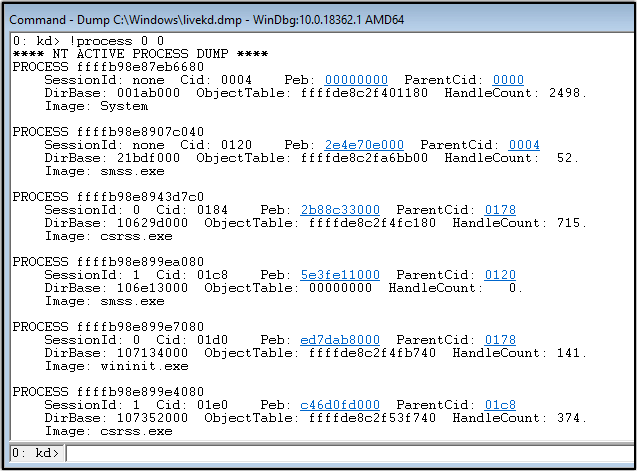
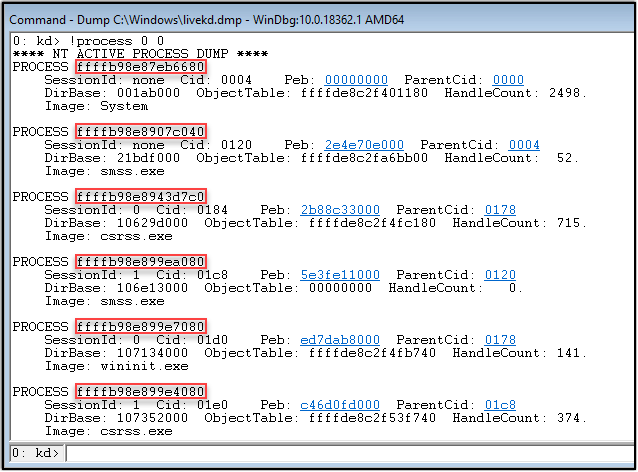
commit

diff --git a/_posts/2020-03-29-Introduction-to-Windows-Demystifying-Windows-System-Architecture-and-Memory-Management.md b/_posts/2020-03-29-Introduction-to-Windows-Demystifying-Windows-System-Architecture-and-Memory-Management.md
@@ -143,9 +143,27 @@ Upon placing LiveKD in the appropriate directory also containing WinDbg, we can 
 
 <img src="{{ site.url }}{{ site.baseurl }}/images/livekd-w.png" alt="">
 
-Once the debugger is up and running, let's execute the `'!process 0 0'` command. This command will print out all the currently running processes on the system.
+Once the debugger is up and running, let's execute the `'!process 0 0'` command. This command will print out some information on all the currently running processes on the system.
 
 <img src="{{ site.url }}{{ site.baseurl }}/images/current-running-processes-windbg.png" alt="">
+
+Hightlighted in the above image, these are addresses to each of the process' EPROCESS structure that is managed by the 'Executive' component in the Windows architecture. We'll be covering the general architecture of Windows shortly, so hang tight.
+
+If we'd like to gather more detail on a specific process that's currently running, we can issue `'!process <EPROCESS_Addr>'`. (See the image below for an example)
+
+<img src="{{ site.url }}{{ site.baseurl }}/images/current-running-processes-windbg.png" alt="">
+
+Keeping with the theme, I've requested further details on the _'Notepad.exe'_ process.
+
+<img src="{{ site.url }}{{ site.baseurl }}/imagesnotepad-process-windbg.png" alt="">
+
+From the output, we can see quite a lot of information about the _'Notepad.exe'_ process. We can see the process identifier (the `'CID'` parameter in the output), the `'Token'` address (which discloses the security context of the process), etc.
+
+Due to there being so much presented in the output, I won't be going into much further details here. However, I do want to show how you can enumerate all this information by crawling the EPROCESS structure through offsets.
+
+To make sure we're working under the context of _'Notepad.exe'_ in the debugger, we're going to issue `'.process <Notepad_EPROCESS_Addr>'`. This will switch the active process that WinDbg is working under to the specified process.
+
+We'll know if we've successfully transitioned, if we receive a message in WinDbg stating, _"Implicit process is now <EPROCESS_Addr>"_.
 
 Threads
 ---
